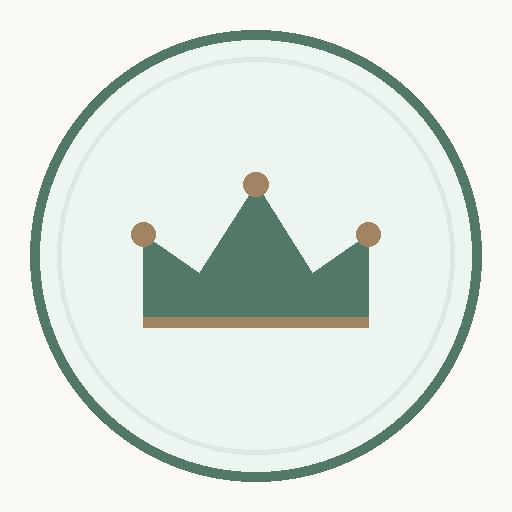
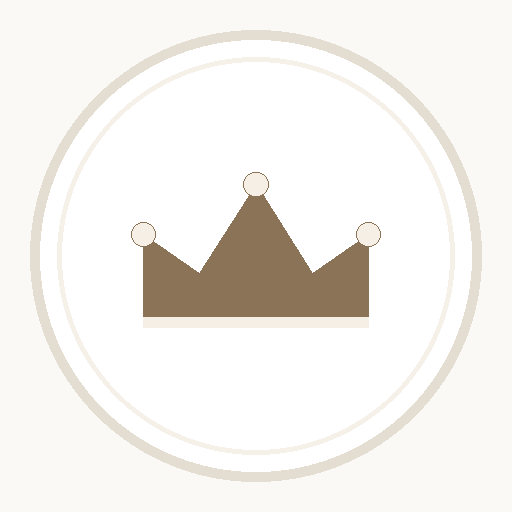
Switch to pure White and Warm Cream luxury aesthetic with cache busting

Changed region(s): [[0.0312, 0.0312, 0.9688, 0.9688], [0.25, 0.3438, 0.75, 0.6562]]

diff --git a/styles.css b/styles.css
@@ -1,39 +1,39 @@
 /* Queen Bloom | Minimalist Daily Routine & Self-Care Haven */
 :root {
-  /* Ultra-Light Airy Sanctuary Palette (Bright, Soft, Soothing) */
-  --bg-page: #faf9f6;          /* Soft alabaster linen */
-  --bg-card: #ffffff;          /* Pure crisp white */
-  --bg-card-subtle: #f7f6f2;   /* Soft warm ivory */
-  --bg-card-hover: #f1efea;
+  /* Warm White & Cream Luxury Palette (Zero Wine, Zero Red, Clean & Pure) */
+  --bg-page: #fbf9f5;          /* Warm soft cream */
+  --bg-card: #ffffff;          /* Pure clean white */
+  --bg-card-subtle: #f5f2eb;   /* Delicate light cream */
+  --bg-card-hover: #efebe2;
   --bg-input: #ffffff;
-  --bg-overlay: rgba(247, 246, 242, 0.85); /* Luminous frosted overlay */
+  --bg-overlay: rgba(251, 249, 245, 0.90); /* Luminous cream frosted glass */
   
-  --border-subtle: #eae7e1;
-  --border-card: #e5e1d8;
-  --border-focus: #527968;
+  --border-subtle: #eae5db;
+  --border-card: #e4ddd1;
+  --border-focus: #8a7356;
   
-  --text-primary: #2b2f33;     /* Soft slate graphite */
-  --text-secondary: #656b72;   /* Gentle neutral */
-  --text-muted: #9ba0a6;
+  --text-primary: #2d2e30;     /* Clean soft graphite */
+  --text-secondary: #67696f;   /* Neutral slate */
+  --text-muted: #9c9ea4;
   
-  /* Calming, Soothing Light Botanical Accents */
-  --accent-primary: #527968;   /* Soft calming sage green */
-  --accent-primary-hover: #436556;
-  --accent-sage: #527968;
-  --accent-sage-soft: #edf5f0; /* Gentle mint mist */
+  /* Warm Champagne Sand & Soft Botanical Accents */
+  --accent-primary: #8a7356;   /* Warm champagne gold */
+  --accent-primary-hover: #756147;
+  --accent-sand: #8a7356;
+  --accent-sand-soft: #f5efe6; /* Soft warm cream */
   
-  --accent-terracotta: #b56f64; /* Soft warm rose / terracotta */
-  --accent-terracotta-soft: #faf0ee;
+  --accent-sage: #537766;      /* Subtle serene botanical sage */
+  --accent-sage-soft: #edf4f0;
   
-  --accent-sand: #a18563;      /* Warm golden sand */
-  --accent-sand-soft: #faf5ee;
-
-  --accent-water: #4a8ebf;     /* Fresh water sky */
-  --accent-water-soft: #edf6fc;
+  --accent-stone: #787b80;     /* Clean neutral stone */
+  --accent-stone-soft: #f2f3f4;
   
-  --shadow-subtle: 0 1px 4px rgba(45, 55, 50, 0.03), 0 3px 12px rgba(45, 55, 50, 0.02);
-  --shadow-card: 0 2px 10px rgba(45, 55, 50, 0.04);
-  --shadow-modal: 0 16px 44px rgba(45, 55, 50, 0.09);
+  --accent-water: #478ebd;     /* Clean clear water */
+  --accent-water-soft: #edf5fc;
+  
+  --shadow-subtle: 0 1px 4px rgba(60, 50, 40, 0.03), 0 3px 12px rgba(60, 50, 40, 0.02);
+  --shadow-card: 0 2px 10px rgba(60, 50, 40, 0.04);
+  --shadow-modal: 0 16px 44px rgba(60, 50, 40, 0.09);
   
   --radius-sm: 8px;
   --radius-md: 12px;
@@ -45,31 +45,30 @@
   --font-body: 'Plus Jakarta Sans', system-ui, -apple-system, sans-serif;
 }
 
-/* Minimalist Dark Mode (Soft Charcoal & Muted Sage) */
+/* Minimalist Dark Mode (Soft Charcoal & Warm Sand) */
 [data-theme="dark"] {
-  --bg-page: #141517;
-  --bg-card: #1c1e21;
-  --bg-card-subtle: #24272b;
-  --bg-card-hover: #26292d;
-  --bg-input: #1a1b1d;
-  --bg-overlay: rgba(15, 17, 19, 0.8);
+  --bg-page: #151617;
+  --bg-card: #1d1f21;
+  --bg-card-subtle: #25282b;
+  --bg-card-hover: #292c30;
+  --bg-input: #1b1c1e;
+  --bg-overlay: rgba(16, 17, 18, 0.85);
   
-  --border-subtle: #2b2e32;
-  --border-card: #2e3136;
-  --border-focus: #d1d5db;
+  --border-subtle: #2c2f33;
+  --border-card: #303338;
+  --border-focus: #c4ab89;
   
   --text-primary: #f0f1f2;
   --text-secondary: #a2a7ad;
   --text-muted: #6f747b;
   
-  --accent-primary: #ededed;
-  --accent-primary-hover: #ffffff;
+  --accent-primary: #d6be9f;
+  --accent-primary-hover: #e8d4ba;
+  --accent-sand: #c4ab89;
+  --accent-sand-soft: #2a251e;
+  
   --accent-sage: #6c937f;
   --accent-sage-soft: #1f2b24;
-  --accent-terracotta: #c48377;
-  --accent-terracotta-soft: #2e201e;
-  --accent-sand: #b89b7a;
-  --accent-sand-soft: #29241f;
 
   --accent-water: #6aa8d9;
   --accent-water-soft: #1a2836;
@@ -458,7 +457,7 @@ body {
   transition: var(--transition);
 }
 .task-delete-btn:hover {
-  color: var(--accent-terracotta);
+  color: var(--text-primary);
 }
 
 /* Empty State */
@@ -1199,14 +1198,19 @@ body {
   border-color: var(--border-focus);
 }
 .danger-btn {
-  background: var(--accent-terracotta-soft);
-  border: 1px solid var(--accent-terracotta);
-  color: var(--accent-terracotta);
+  background: var(--bg-card-subtle);
+  border: 1px solid var(--border-card);
+  color: var(--text-secondary);
   border-radius: var(--radius-full);
   padding: 8px 16px;
   font-size: 0.78rem;
   font-weight: 600;
   cursor: pointer;
+  transition: var(--transition);
+}
+.danger-btn:hover {
+  background: var(--bg-card-hover);
+  color: var(--text-primary);
 }
 
 .w-full { width: 100%; }

diff --git a/app.js b/app.js
@@ -1003,7 +1003,7 @@ function initSettings() {
   }
 }
 
-// Minimalist Theme Handler (Calm Linen Light & Soft Graphite Dark)
+// Minimalist Theme Handler (Warm White & Cream Light & Soft Charcoal Dark)
 function applyTheme(theme) {
   const themeIcon = document.getElementById('theme-icon');
   const metaTheme = document.querySelector('meta[name="theme-color"]');
@@ -1011,17 +1011,21 @@ function applyTheme(theme) {
     document.documentElement.setAttribute('data-theme', 'dark');
     localStorage.setItem('queen_bloom_theme', 'dark');
     if (themeIcon) themeIcon.textContent = '☀';
-    if (metaTheme) metaTheme.setAttribute('content', '#141517');
+    if (metaTheme) metaTheme.setAttribute('content', '#151617');
   } else {
     document.documentElement.removeAttribute('data-theme');
     localStorage.setItem('queen_bloom_theme', 'light');
     if (themeIcon) themeIcon.textContent = '🌙';
-    if (metaTheme) metaTheme.setAttribute('content', '#faf9f6');
+    if (metaTheme) metaTheme.setAttribute('content', '#fbf9f5');
   }
 }
 
 function initTheme() {
-  const savedTheme = localStorage.getItem('queen_bloom_theme') || 'light';
+  let savedTheme = localStorage.getItem('queen_bloom_theme');
+  if (savedTheme !== 'dark') {
+    savedTheme = 'light';
+    localStorage.setItem('queen_bloom_theme', 'light');
+  }
   applyTheme(savedTheme);
 
   const toggleBtn = document.getElementById('theme-toggle-btn');
@@ -1031,7 +1035,7 @@ function initTheme() {
       const next = isDark ? 'light' : 'dark';
       applyTheme(next);
       queenAudio.playTone('chime');
-      showToast(next === 'dark' ? '🌙 Soft Graphite Theme' : '☀ Calm Linen Theme');
+      showToast(next === 'dark' ? '🌙 Soft Charcoal Theme' : '☀ White & Cream Theme');
     });
   }
 
@@ -1041,14 +1045,14 @@ function initTheme() {
     lightBtn.addEventListener('click', () => {
       applyTheme('light');
       queenAudio.playTone('chime');
-      showToast('☀ Calm Linen Theme Active');
+      showToast('☀ White & Cream Active');
     });
   }
   if (darkBtn) {
     darkBtn.addEventListener('click', () => {
       applyTheme('dark');
       queenAudio.playTone('chime');
-      showToast('🌙 Soft Graphite Theme Active');
+      showToast('🌙 Soft Charcoal Theme Active');
     });
   }
 }

diff --git a/index.html b/index.html
@@ -5,14 +5,14 @@
   <meta name="viewport" content="width=device-width, initial-scale=1.0, maximum-scale=1.0, user-scalable=no">
   <meta name="apple-mobile-web-app-capable" content="yes">
   <meta name="apple-mobile-web-app-status-bar-style" content="black-translucent">
-  <meta name="theme-color" content="#faf9f6">
+  <meta name="theme-color" content="#fbf9f5">
   <title>Queen Bloom | Daily Routine & Self-Care Haven</title>
   <link rel="preconnect" href="https://fonts.googleapis.com">
   <link rel="preconnect" href="https://fonts.gstatic.com" crossorigin>
   <link href="https://fonts.googleapis.com/css2?family=Cormorant+Garamond:ital,wght@0,500;0,600;0,700;1,400&family=Plus+Jakarta+Sans:wght@300;400;500;600;700&display=swap" rel="stylesheet">
   <link rel="manifest" href="manifest.json">
   <link rel="apple-touch-icon" href="icon-192.png">
-  <link rel="stylesheet" href="styles.css">
+  <link rel="stylesheet" href="styles.css?v=white-cream-final">
 </head>
 <body>
 
@@ -484,6 +484,6 @@
   <!-- Toast Notification Popup -->
   <div id="bloom-toast" class="bloom-toast"></div>
 
-  <script src="app.js"></script>
+  <script src="app.js?v=white-cream-final"></script>
 </body>
 </html>

diff --git a/server.js b/server.js
@@ -51,7 +51,12 @@ const server = http.createServer((req, res) => {
         res.end(`Server Error: ${err.code}`);
       }
     } else {
-      res.writeHead(200, { 'Content-Type': contentType });
+      res.writeHead(200, {
+        'Content-Type': contentType,
+        'Cache-Control': 'no-cache, no-store, must-revalidate',
+        'Pragma': 'no-cache',
+        'Expires': '0'
+      });
       res.end(content, 'utf-8');
     }
   });

diff --git a/sw.js b/sw.js
@@ -1,4 +1,4 @@
-const CACHE_NAME = 'queen-bloom-v2';
+const CACHE_NAME = 'queen-bloom-v3-white-cream';
 const ASSETS = [
   './',
   './index.html',

diff --git a/generate_icons.py b/generate_icons.py
@@ -2,19 +2,18 @@ import math
 from PIL import Image, ImageDraw
 
 def create_queen_icon(size, filename):
-    # Pure airy alabaster linen background #faf9f6
-    img = Image.new('RGBA', (size, size), (250, 249, 246, 255))
+    # Pure warm cream background #fbf9f5
+    img = Image.new('RGBA', (size, size), (251, 249, 245, 255))
     draw = ImageDraw.Draw(img)
     
     center = size / 2
     radius = size * 0.44
     
-    # Soft sage rounded circle badge
-    # Outer circle in soft light mint mist #edf5f0
+    # Clean warm ivory/cream badge
     draw.ellipse(
         [center - radius, center - radius, center + radius, center + radius],
-        fill=(237, 245, 240, 255),
-        outline=(82, 121, 104, 255), # soft calming sage border #527968
+        fill=(255, 255, 255, 255), # Pure crisp white
+        outline=(228, 221, 209, 255), # Warm cream border #e4ddd1
         width=max(2, int(size * 0.02))
     )
     
@@ -22,11 +21,11 @@ def create_queen_icon(size, filename):
     inner_r = radius * 0.88
     draw.ellipse(
         [center - inner_r, center - inner_r, center + inner_r, center + inner_r],
-        outline=(220, 232, 225, 255),
+        outline=(245, 240, 232, 255),
         width=max(1, int(size * 0.01))
     )
     
-    # Crown Silhouette in Soft Calming Sage #527968
+    # Crown Silhouette in Warm Champagne Gold #8a7356
     crown_w = size * 0.44
     crown_h = size * 0.28
     c_left = center - crown_w / 2
@@ -43,21 +42,20 @@ def create_queen_icon(size, filename):
         (c_right, c_top + crown_h * 0.35),
         (c_right, c_bot)
     ]
-    # Soft sage fill
-    draw.polygon(pts, fill=(82, 121, 104, 255))
+    draw.polygon(pts, fill=(138, 115, 86, 255))
     
-    # Warm sand accents on tips
+    # Warm cream jewels on tips
     jewel_r = size * 0.024
     tips = [(c_left, c_top + crown_h * 0.35), (center, c_top), (c_right, c_top + crown_h * 0.35)]
     for x, y in tips:
-        draw.ellipse([x - jewel_r, y - jewel_r, x + jewel_r, y + jewel_r], fill=(161, 133, 99, 255))
+        draw.ellipse([x - jewel_r, y - jewel_r, x + jewel_r, y + jewel_r], fill=(245, 239, 230, 255), outline=(138, 115, 86, 255), width=1)
         
     # Crown headband accent line
     band_h = max(2, int(size * 0.02))
-    draw.rectangle([c_left, c_bot - band_h, c_right, c_bot], fill=(161, 133, 99, 255))
+    draw.rectangle([c_left, c_bot - band_h, c_right, c_bot], fill=(245, 239, 230, 255))
 
     img.save(filename, 'PNG')
-    print(f"Generated light aesthetic icon {filename}")
+    print(f"Generated white & cream icon {filename}")
 
 if __name__ == '__main__':
     create_queen_icon(192, 'icon-192.png')
